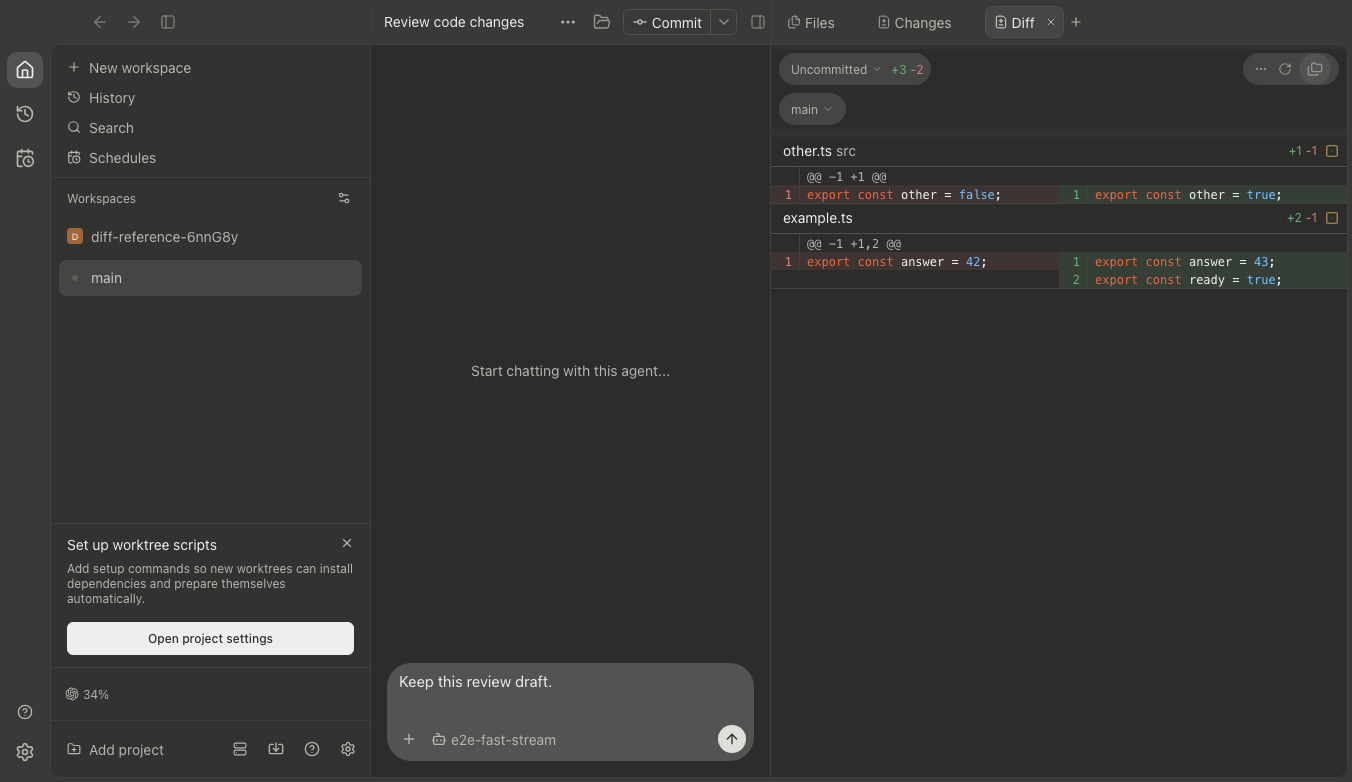
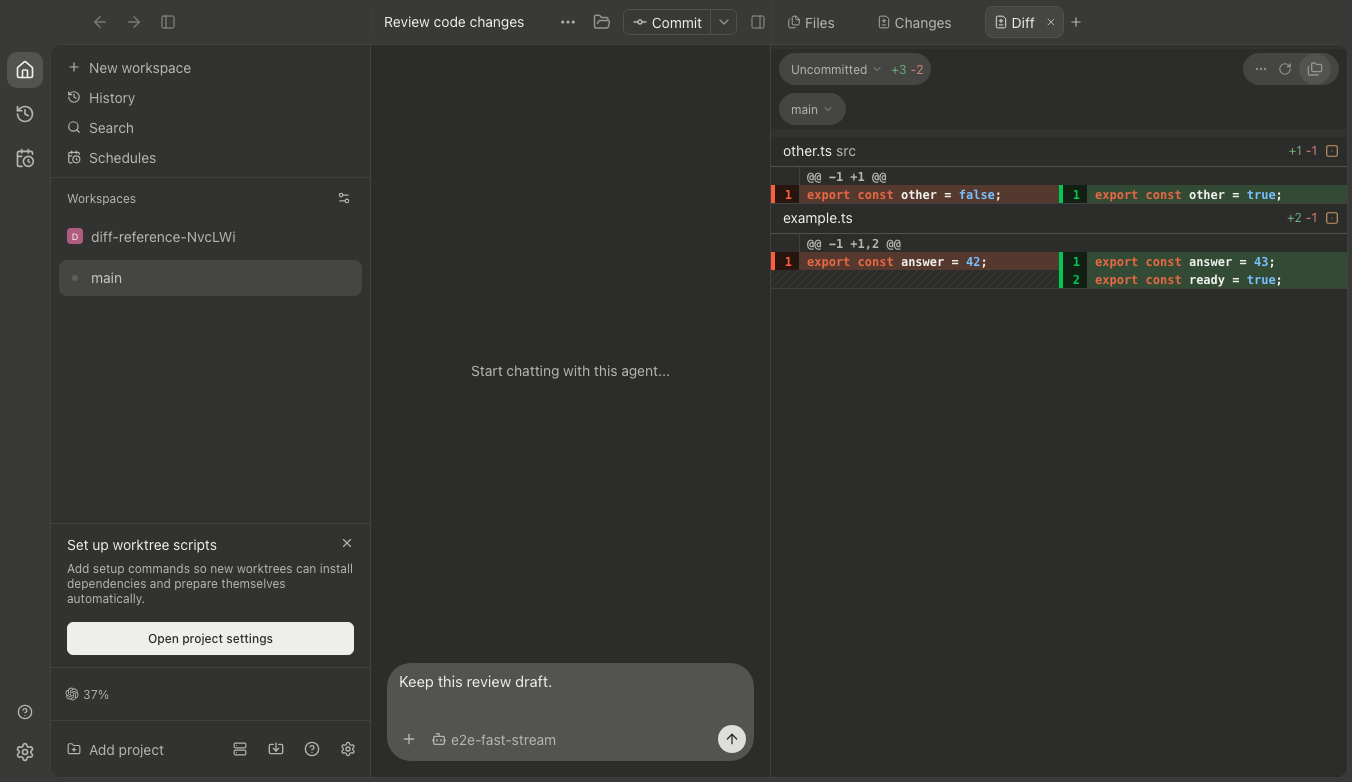
docs(desktop): record diff paint and theme validation

diff --git a/docs/refactors/codex-desktop-ui-plan.md b/docs/refactors/codex-desktop-ui-plan.md
@@ -613,8 +613,8 @@ not acceptance of the older visible main tab strip.
 ### Code weight — 2026-10-01
 
 Mac Appearance now exposes Default, Regular, Medium and SemiBold beside the code
-font family. Default stores no override: it retains the editor's existing 600
-and the existing regular/inherited weights in chat code and diffs. Explicit choices
+font family. Default stores no override: Mac editors and diffs use 600, while
+chat code retains its existing regular/inherited weight. Explicit choices
 apply to inline/fenced Markdown, tool code, editable/readonly files and diff bodies.
 Other platforms retain the saved preference without applying it. Terminal/xterm
 normal and ANSI-bold weights remain independent.
@@ -1507,11 +1507,11 @@ Appearance captures were inspected in the private artifact directory
 `/private/tmp/paseo-settings-return-final-{format,lint}.log`. The first concurrent
 typecheck raced the dependency build; the final check was run after build completion.
 
-The latest Custom refresh was built from `bb54f11` after the Diff dock renderer
+The latest Custom refresh was built from `b81718f` after the Diff dock and code-paint renderer
 checks passed. Its real renderer/preload, custom identity/update guard, isolated
 daemon startup, bundled CLI and terminal smoke pass. Log:
-`/private/tmp/paseo-diff-dock-package-build.log`; artifacts:
-`/private/tmp/paseo-diff-dock-package-qa`. This smoke establishes package startup;
+`/private/tmp/paseo-diff-paint-package-build.log`; artifacts:
+`/private/tmp/paseo-diff-paint-package-qa`. This smoke establishes package startup;
 the populated Diff interaction evidence is the isolated renderer case below.
 
 The preceding Custom refresh matched production source `5b5083b`, including code
@@ -1718,7 +1718,7 @@ were compared with the supplied reference pair. Source PNGs are 2704×1564 (@2x)
 the synthetic renderer captures are 1352×782 (@1x), at the same CSS viewport.
 This establishes the dock/tree layout and interaction slice, not full pixel parity:
 the fixture has two small changes, while the reference is scrolled into a large
-diff. Code weight/colors, diff hunk treatments and large-diff notices still need
+diff. Intraline highlights, diff hunk treatments and large-diff notices still need
 state-matched refinement. The current branch control retains Paseo checkout
 semantics; a comparison-base picker must not be fabricated from that control.
 Refresh likewise retains its own operation instead of impersonating reference
@@ -1735,6 +1735,37 @@ pass; logs `/private/tmp/paseo-diff-dock-final-{format,lint,typecheck}.log` and
 `/private/tmp/paseo-diff-dock-feature-commit.log`. The refreshed Custom bundle
 passes startup/CLI/terminal smoke as recorded above. Full Diff visual parity and
 provider-specific approval presentation remain open work.
+
+#### Diff code paint
+
+The populated reference's embedded Display ICC profile was converted to sRGB
+before sampling. The code region at source pixels `(1560,685)`–`(2190,1535)`
+establishes opaque addition/deletion backgrounds `#334a34`/`#55392e`, darker
+gutters `#122013`/`#28150e`, green/orange-red change markers and diagonal empty-side
+stripes. These paints apply only to Mac Electron's registered `dark` theme;
+other themes and native platforms keep their semantic palette. Stripes use
+document coordinates so scrolling and adjacent rows preserve phase, and exclude
+inline-review space. The refreshed captures above show this paint slice.
+
+Mac Diff defaults now use the existing Mac editor's 600 weight, with the saved
+code-weight preference taking precedence. Painting, font loading and measured
+selection geometry share the same font descriptor. The explicit-weight renderer
+regression still passes for Markdown, files, Shell output and diffs without
+changing prose or authored emphasis.
+
+Palette and canvas regressions went red before implementation. All 29 focused
+palette, web/native paint and workspace-cache tests pass; the 12 palette tests
+passed again after simplifying the retention comparison. Two real renderer cases
+pass (43.0s), including pixel reads of six reference colors, Light/Claude/Dark
+switching, default weight and explicit weight overrides. Root lint/typecheck pass.
+Logs: `/private/tmp/paseo-diff-paint-palette-{red,green,final}.log`,
+`/private/tmp/paseo-diff-paint-canvas-{red,green}.log`,
+`/private/tmp/paseo-diff-paint-final-{format,lint,typecheck,unit}.log`, and
+`/private/tmp/paseo-diff-paint-renderer.log`. The small fixture does not establish
+large-diff pagination, hunk-expansion or per-character highlight fidelity.
+Implementation commit: `b81718f`; normal commit hooks pass. The refreshed Custom
+package also passes renderer/preload, custom identity/update guard, isolated
+daemon, CLI and terminal smoke. The read-only review found no material issue.
 
 ### Recording references — 2026-09-30
 
